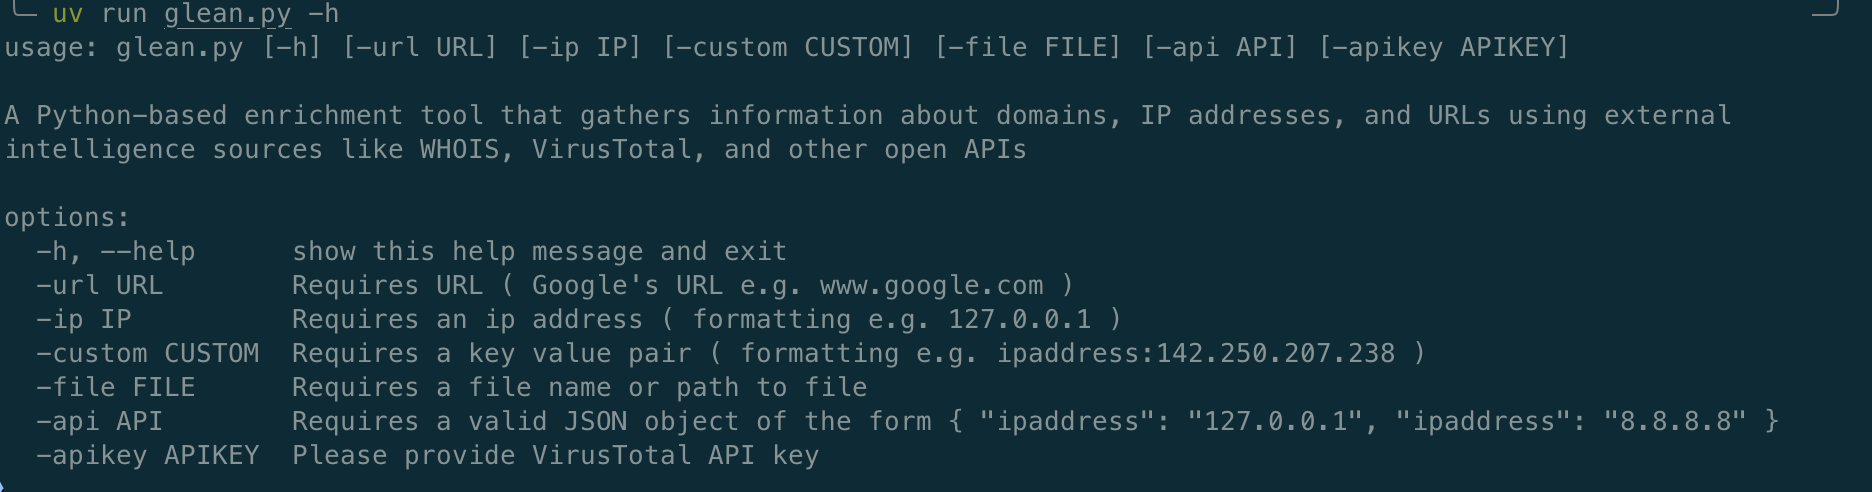
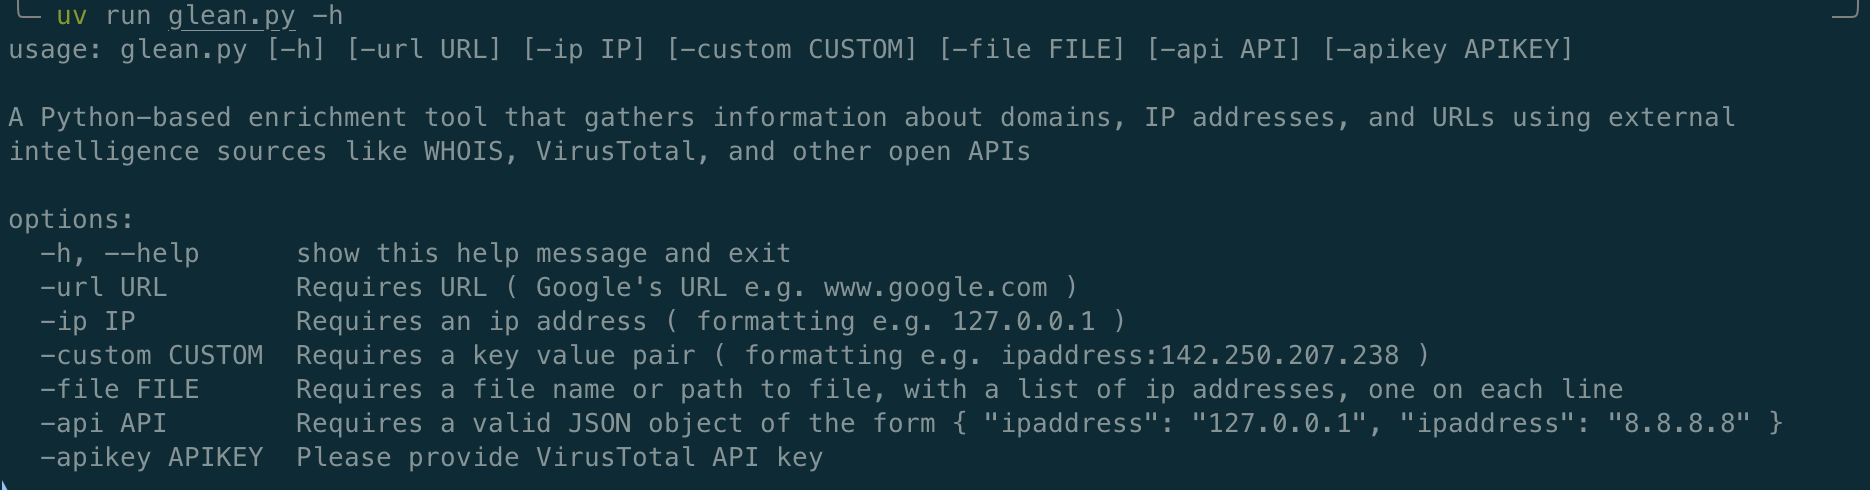
Updating README.md

diff --git a/glean.py b/glean.py
@@ -228,7 +228,7 @@ def argumentparsing(parser):
     parser.add_argument('-custom', type=str, help="Requires a key value pair ( formatting e.g. ipaddress:142.250.207.238 )")
 
     # Parsing file input
-    parser.add_argument('-file',type=str, help="Requires a file name or path to file");
+    parser.add_argument('-file',type=str, help="Requires a file name or path to file, with a list of ip addresses, one on each line");
 
     # Parsing API input
     parser.add_argument('-api',type=str,help="Requires a valid JSON object of the form { \"ipaddress\": \"127.0.0.1\", \"ipaddress\": \"8.8.8.8\" }")
